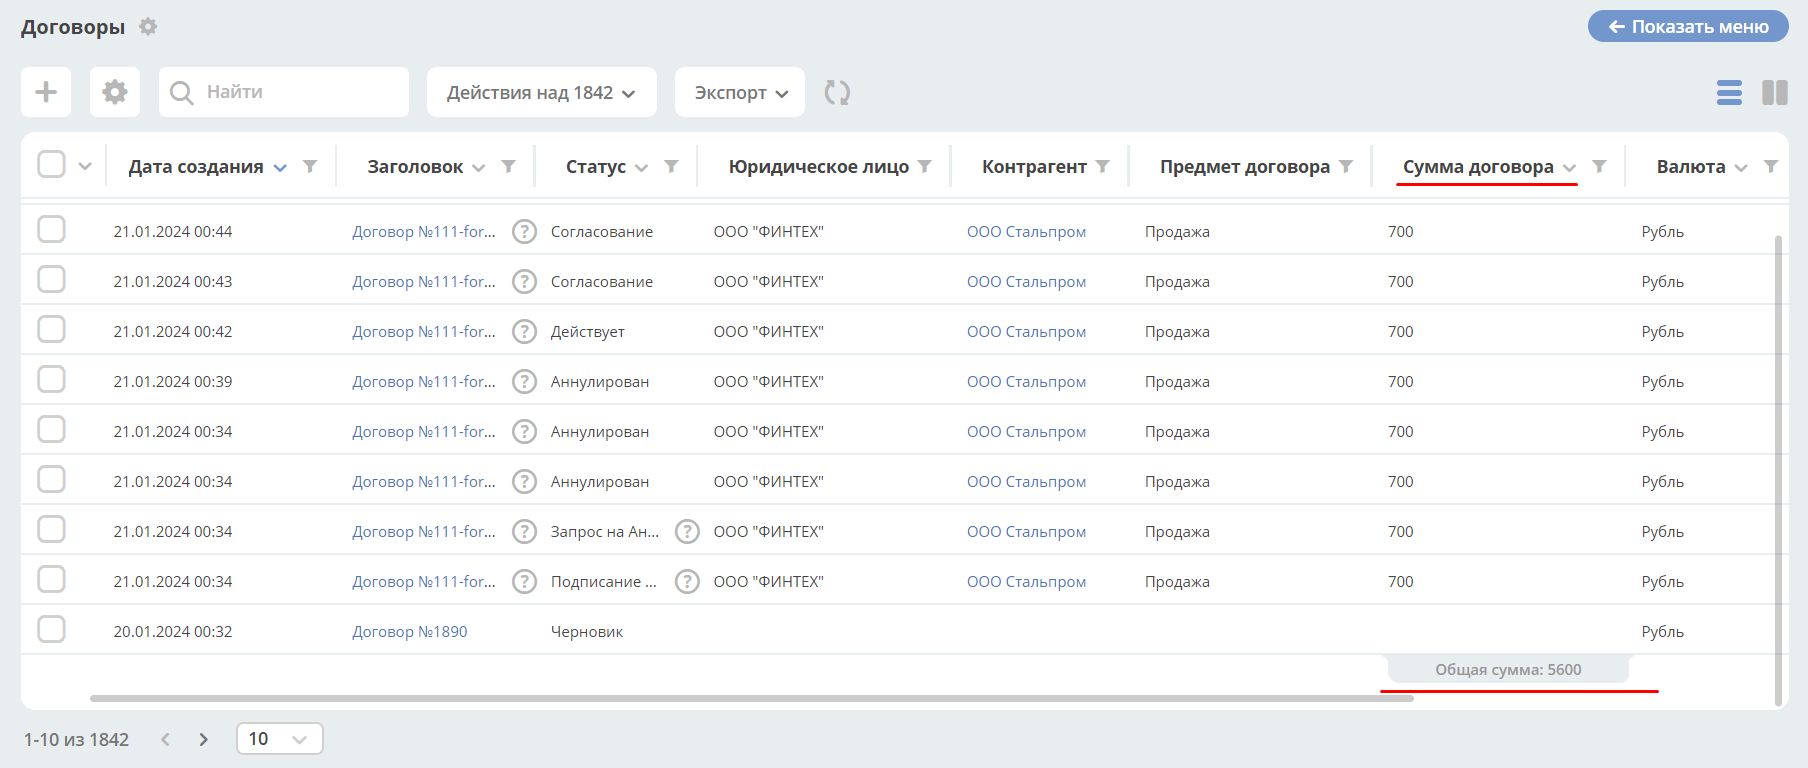
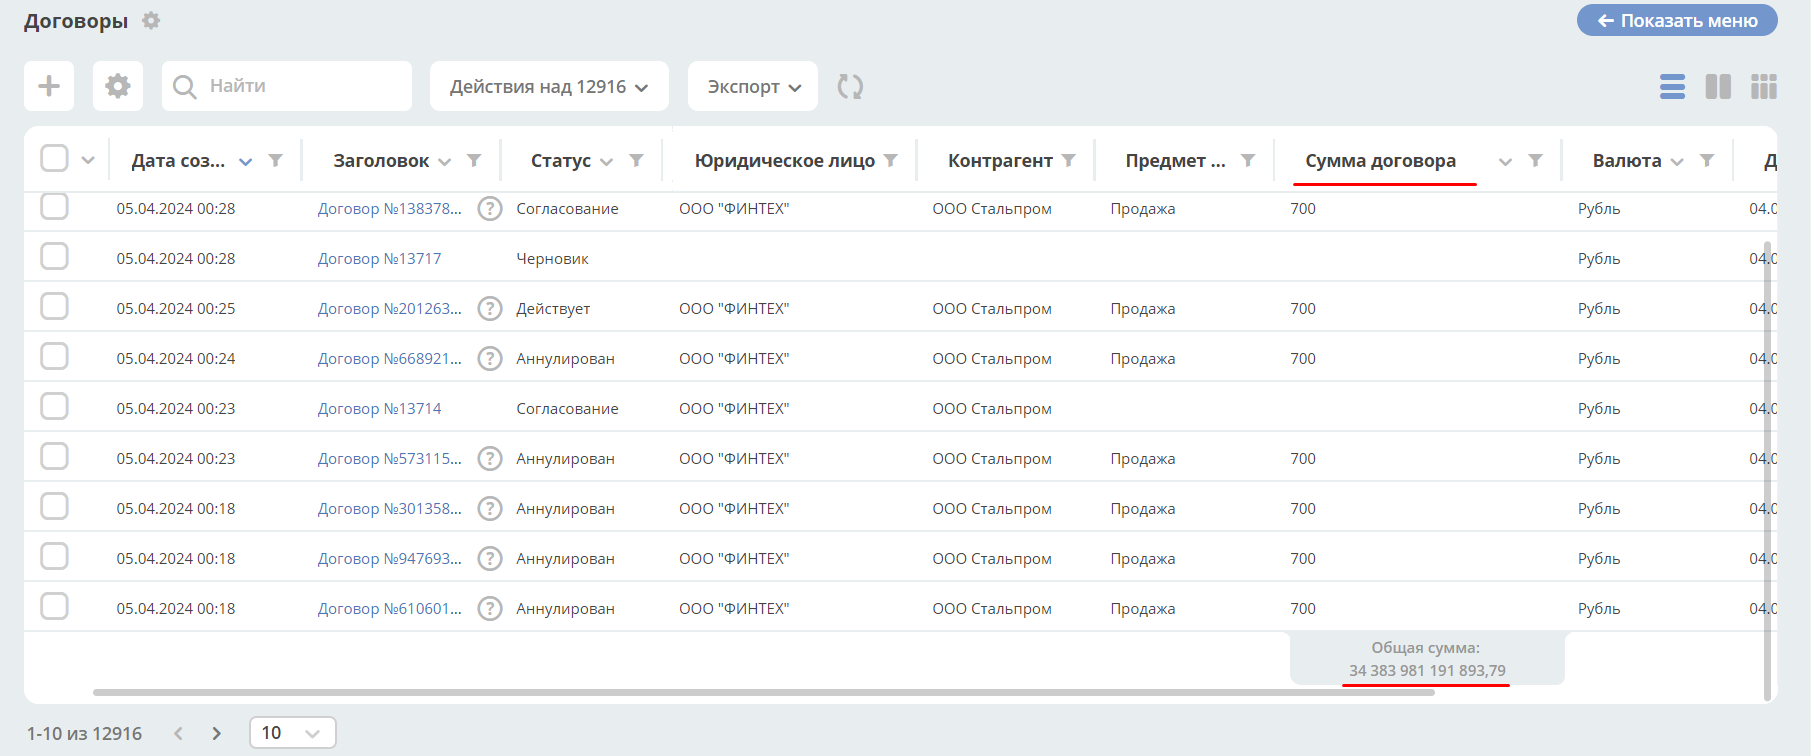
2024.4 release info + journals update

diff --git a/docs/releases/enterprise.rst b/docs/releases/enterprise.rst
@@ -1,13 +1,22 @@
 Enterprise
 ===========
 
-4.10.0
+2024.4
 -------
+
+1. Отображение KPI на схеме бизнес-процесса в виджете :ref:`«Статистика процесса»<widget_process_statistics_KPI>`.
+
+2. Отображение % экземпляров процессов :ref:`на разветвлениях <widget_process_statistics_extended>` в модели процессов . Расчет % ведется от общего числа экземпляров, прошедших шлюз.
+
+3. В настройке колонок агрегации реализована возможность :ref:`«добавлять несколько колонок <additional_column>` с разными настройками фильтров и возможностью указать имя колонки.
+
+4. В библиотеку ecos-camel добавлен компонент ecos-records-delete для возможности удаления сущностей через роутинг camel.
 
 4.9.0
 -----
 
 1. `Рабочее расписание и производственный календарь <https://citeck-ecos.readthedocs.io/ru/latest/introduction/functions/work_calendar.html>`_ - функциональность для учета нерабочих, праздничных дней сотрудников, которая позволяют более гибко настраивать рабочий процесс сотрудников в различных модулях системы. 
+
 2. `KPI <https://citeck-ecos.readthedocs.io/ru/latest/settings_kb/processes/ecos_bpmn/ecos_bpmn_kpi.html>`_ - функционал для настройки норм времени:
   
   - KPI по продолжительности позволяет отслеживать время между указанными BPMN элементами (Исходный и Целевой) в процессе. 
@@ -18,7 +27,7 @@ Enterprise
 
 1. Добавлена поддержка `серверных групповых действий <https://citeck-ecos.readthedocs.io/ru/latest/general/Group_actions.html>`_.
 
-2. В модулях **ОРД, Исходящие документы** добавлена возможность `подписания с использованием ЭЦП <esign>`_.
+2. В модулях **ОРД, Исходящие документы** добавлена возможность :ref:`подписания с использованием ЭЦП <esign>`.
 
 4.7.0
 -------

diff --git a/docs/settings_kb/interface/journals/journal_settings.rst b/docs/settings_kb/interface/journals/journal_settings.rst
@@ -16,7 +16,7 @@
 которое в дальнейшем можно будет использовать для группировки, сортировки, поиска и отображения.
 
 .. image:: _static/journal_settings/expression_attribute.png
-      :width: 400
+      :width: 300
       :align: center
 
 Выражение должно быть записано в круглых скобках. Исключение - если выражение состоит из одной функции, то скобки не требуются.
@@ -157,13 +157,13 @@
 Фильтр **Select Journal**:
 
   .. image:: _static/journal_settings/j_user_29.png
-       :width: 600
+       :width: 700
        :align: center
 
 Для изменения неоходимо в журнале рядом с названием нажать:
 
   .. image:: _static/journal_settings/j_user_25.png
-       :width: 600
+       :width: 700
        :align: center
 
 У необходимой колонки нажать **"Дополнительно"** : 
@@ -181,7 +181,7 @@
 Фильтр **Select Journal** изменен на текстовый:
 
   .. image:: _static/journal_settings/j_user_28.png
-       :width: 600
+       :width: 700
        :align: center
 
 Настройки отображения суммы для колонки
@@ -216,6 +216,6 @@
 В нижней части столбца будет отображаться общая сумма значений столбца:
 
   .. image:: _static/journal_settings/j_user_31.png
-       :width: 600
+       :width: 700
        :align: center
 

diff --git a/docs/settings_kb/interface/widgets.rst b/docs/settings_kb/interface/widgets.rst
@@ -743,6 +743,8 @@ Cравнение версий процесса - выберите версии 
 
 У виджета возможны 3 представления:
 
+.. _widget_process_statistics_KPI:
+
 - **Режим KPI:**
 
             .. image:: _static/widgets/Process_statistics_KPI.png
@@ -753,6 +755,8 @@ Cравнение версий процесса - выберите версии 
 
 См. :ref:`подробно о KPI<bpmn_kpi>`
 
+.. _widget_process_statistics_simple:
+
 - **Упрощенный режим:**
 
             .. image:: _static/widgets/Process_statistics_simple.png
@@ -760,6 +764,8 @@ Cравнение версий процесса - выберите версии 
                  :align: center 
 
  Отображается только бизнес-процесс.
+
+.. _widget_process_statistics_extended:
 
 - **Расширенный режим:**
 

diff --git a/docs/releases/community.rst b/docs/releases/community.rst
@@ -1,10 +1,14 @@
 Community
 =============
 
-4.10.0
+2024.4
 -------
 
+1. Возможность :ref:`просмотреть вид уведомления<notifications-label>`, которое было отправлено через журнал уведомлений.
 
+2. Возможность :ref:`настройки отображения событий<history-config_aspect>` в истории и в виджете «История событий». 
+
+3. Оптимизирована загрузка открытых вкладок. 
 
 4.9.0
 -----
